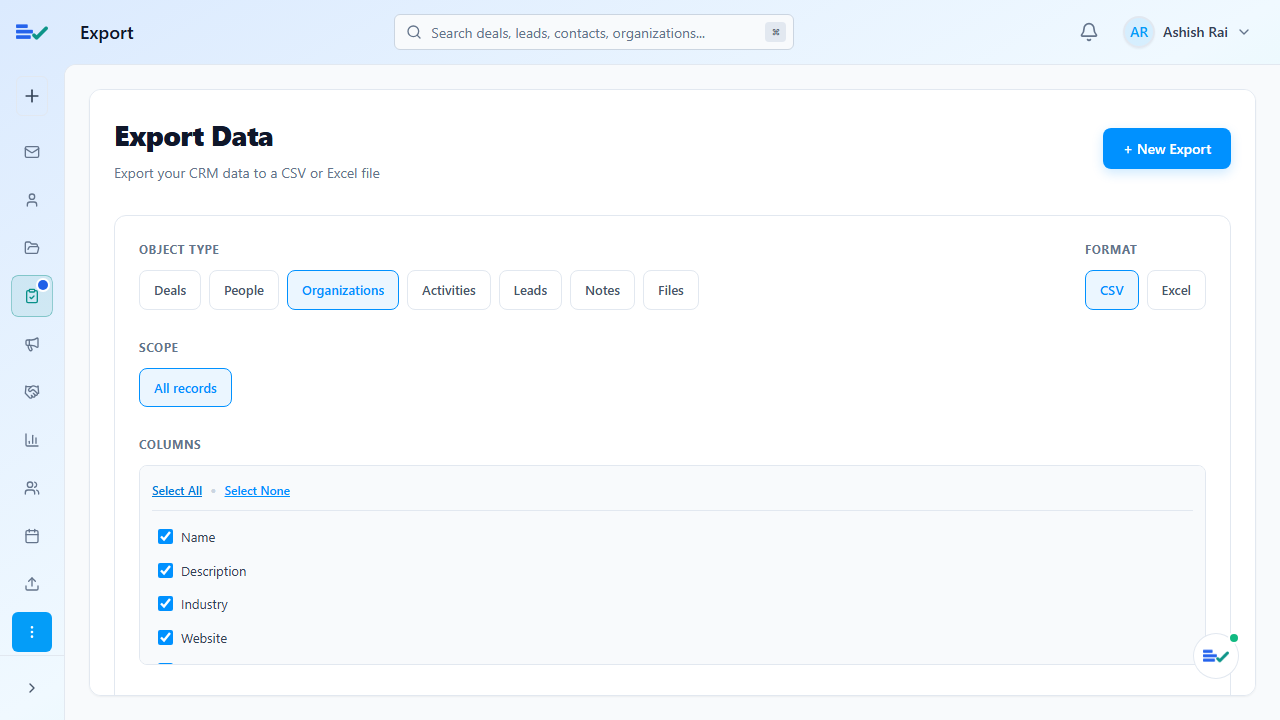
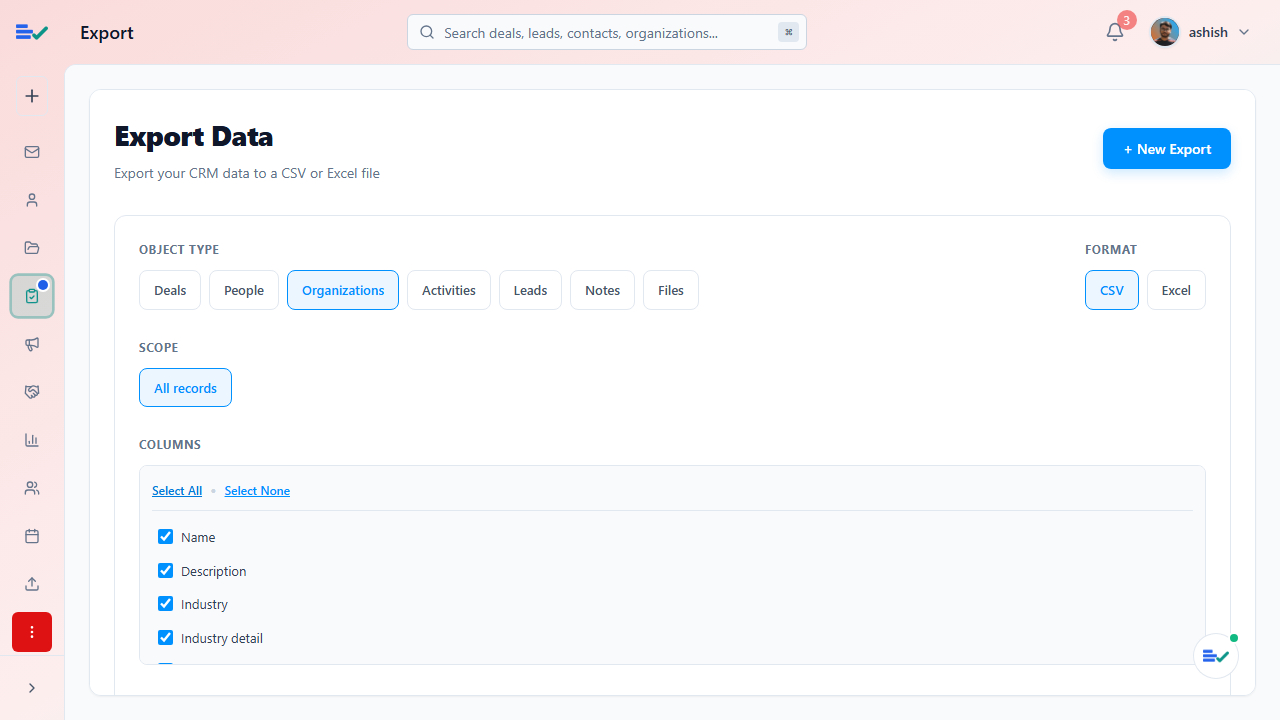
Add Export delete and Download again tests
- DeleteActivities, DeleteContactExport (People), DeleteNotesExport, DeleteOrganization:
  were empty; now delete the newest export of the type from Export History (making and
  downloading one first when there is none), checking Cancel, Delete and the reload
- DownloadAgainExport: Download again gives the same file as the first download (CSV, Excel)
- tests/common/deleteExport.js: shared delete flow; exportData.js exports openExport and readRows
- Screenshots of each test, and refreshed Organizations CSV export screenshots

diff --git a/tests/common/deleteExport.js b/tests/common/deleteExport.js
@@ -1,0 +1,123 @@
+// tests/common/deleteExport.js
+// Shared flow for the Export delete scripts (tests/Export/Delete*.spec.js): delete an export from the Export History.
+// Exports are kept for 7 days, so there is often none of the object type. Then one is made first (Export, then
+// Download in the success message) and that one is deleted. Only the newest export of the object type is deleted.
+// Screenshots: screenshots/Export/Delete<Object>-*.png
+const { expect } = require('@playwright/test');
+const { openExport } = require('./exportData');
+
+// Object type button and history entry -> name the export API uses for it
+const TYPES = { People: 'contacts', Organizations: 'organizations', Activities: 'activities', Notes: 'notes' };
+
+const isExportList = response => /\/api\/exports\?/.test(response.url()) && response.request().method() === 'GET';
+
+/**
+ * Makes an export of every record of the object type and downloads it (setup for the delete test).
+ * @returns {Promise<object>} the export as the API returns it
+ */
+async function makeExport(page, object) {
+  const main = page.getByRole('main');
+  const objectButton = main.getByRole('button', { name: object, exact: true });
+  await objectButton.click();
+  await expect(objectButton).toHaveClass(/--active/);
+  await main.getByRole('button', { name: 'Select All', exact: true }).click();
+  const [created] = await Promise.all([
+    page.waitForResponse(r => r.url().endsWith('/api/exports') && r.request().method() === 'POST', { timeout: 30000 }),
+    main.getByRole('button', { name: 'Export', exact: true }).click(),
+  ]);
+  expect(created.status(), `Export API returned ${created.status()}`).toBe(201);
+  const job = (await created.json()).data;
+
+  // Download it from the success message once the file is ready
+  const success = page.getByRole('dialog').filter({ has: page.getByRole('heading', { name: /Export$/ }) });
+  await expect(success, 'The export should finish').toBeVisible({ timeout: 60000 });
+  const [download] = await Promise.all([
+    page.waitForEvent('download', { timeout: 30000 }),
+    success.getByRole('button', { name: 'Download' }).click(),
+  ]);
+  await expect(success).toBeHidden();
+  console.log(`No ${object} export to delete: made export #${job.id} and downloaded ${download.suggestedFilename()}`);
+  return job;
+}
+
+/**
+ * Deletes the newest export of the object type from the Export History, making one first when there is none.
+ * Checks the question before deleting, that Cancel keeps the export, and that Delete removes it for good.
+ * @param {import('@playwright/test').Page} page
+ * @param {'People'|'Organizations'|'Activities'|'Notes'} object
+ */
+async function deleteExport(page, object) {
+  const shot = step => page.screenshot({ path: `screenshots/Export/Delete${object}-${step}.png` });
+  const type = TYPES[object];
+  const prefix = object.toLowerCase(); // file names: people_export_12.csv, notes_export_13.xlsx, ...
+
+  // Export page, with the history of the object type
+  const [list] = await Promise.all([page.waitForResponse(isExportList, { timeout: 60000 }), openExport(page)]);
+  const main = page.getByRole('main');
+  const rows = main.getByRole('row').filter({ has: page.getByRole('cell') });
+  let job = (await list.json()).data.jobs.find(j => j.objectType === type && j.status === 'ready');
+  if (!job) job = await makeExport(page, object);
+  else console.log(`Deleting the newest ${object} export, #${job.id}`);
+  const fileName = `${prefix}_export_${job.id}.${job.format}`;
+  await main.getByRole('combobox').selectOption({ label: object });
+  const row = rows.filter({ hasText: fileName });
+  await expect(row, `${fileName} should be in the Export History`).toHaveCount(1);
+  // The other exports listed, which must all stay (other tests may add exports meanwhile, so no exact count)
+  const others = (await rows.locator('td:first-child').allInnerTexts()).map(t => t.trim()).filter(name => name !== fileName);
+  await row.scrollIntoViewIfNeeded();
+  await shot('1-history');
+
+  // Every DELETE request made from here on (Cancel must not make one)
+  const deletes = [];
+  page.on('request', request => { if (request.method() === 'DELETE') deletes.push(request.url()); });
+
+  // Delete asks first
+  const question = page.getByRole('heading', { name: 'Delete Export', level: 2 }).locator('xpath=..');
+  const deleteButton = row.getByRole('button', { name: 'Delete this export' });
+  await deleteButton.click();
+  await expect(question.getByRole('heading', { name: 'Delete Export' })).toBeVisible();
+  await expect(page.getByText('Are you sure you want to delete this export? This cannot be undone.')).toBeVisible();
+  const cancel = page.getByRole('button', { name: 'Cancel', exact: true });
+  const confirm = page.getByRole('button', { name: 'Delete', exact: true });
+  await expect(cancel).toBeVisible();
+  await expect(confirm).toBeVisible();
+  await shot('2-question');
+
+  // Cancel keeps the export
+  await cancel.click();
+  await expect(page.getByRole('heading', { name: 'Delete Export' }), 'The question should close').toBeHidden();
+  await expect(row, 'Cancel should keep the export').toHaveCount(1);
+  expect(deletes, 'Cancel should not delete anything').toEqual([]);
+
+  // Delete removes it
+  await deleteButton.click();
+  await expect(page.getByRole('heading', { name: 'Delete Export' })).toBeVisible();
+  const [deleted] = await Promise.all([
+    page.waitForResponse(r => r.request().method() === 'DELETE' && r.url().includes('/api/exports/'), { timeout: 30000 }),
+    confirm.click(),
+  ]);
+  expect(deleted.ok(), `Delete API returned ${deleted.status()}`).toBeTruthy();
+  expect(new URL(deleted.url()).pathname, `Export #${job.id} should be the one deleted`).toMatch(new RegExp(`/api/exports/${job.id}$`));
+  expect(deletes, 'Only this export should be deleted').toHaveLength(1);
+  await expect(page.getByRole('heading', { name: 'Delete Export' }), 'The question should close').toBeHidden();
+  await expect(page.getByText('Export Deleted', { exact: true }), 'A message should confirm the delete').toBeVisible();
+  await expect(page.getByText('The export job has been successfully deleted.')).toBeVisible();
+  await expect(row, `${fileName} should leave the Export History`).toHaveCount(0);
+  for (const name of others) {
+    await expect(rows.filter({ hasText: name }), `Only this export should leave the history, not ${name}`).toHaveCount(1);
+  }
+  if (others.length === 0 && await rows.count() === 0) {
+    await expect(main.getByText(`No ${object} exports yet`), 'An empty history should say so').toBeVisible();
+  }
+  console.log(`Deleted ${fileName}`);
+  await shot('3-deleted');
+
+  // Still gone after reloading the page
+  const [reloaded] = await Promise.all([page.waitForResponse(isExportList, { timeout: 30000 }), page.reload()]);
+  expect((await reloaded.json()).data.jobs.map(j => j.id), `Export #${job.id} should be gone for good`).not.toContain(job.id);
+  await expect(page.getByRole('heading', { name: 'Export Data', level: 1 })).toBeVisible({ timeout: 30000 });
+  await main.getByRole('combobox').selectOption({ label: object });
+  await expect(row, `${fileName} should still be gone after a reload`).toHaveCount(0);
+}
+
+module.exports = { deleteExport };

diff --git a/tests/Export/DownloadAgainExport.spec.js b/tests/Export/DownloadAgainExport.spec.js
@@ -1,0 +1,102 @@
+// Export > Export History > Download again: download an export a second time from the history
+//   1. Make a Deals export (all records, all columns) and download it from the success message
+//   2. Export History lists it, and its button now reads "Download again"
+//   3. Download again gives the same file: same name, same content, as many records as the history shows
+// One test per format. The export is deleted after the test (also when it fails), so runs do not fill up the history.
+// Screenshots: screenshots/Export/DownloadAgain-<format>-*.png
+const fs = require('fs');
+const { test, expect } = require('@playwright/test');
+const { openExport, readRows } = require('../common/exportData');
+
+const BASE_URL = 'https://staging.pipeclose.com';
+const FORMATS = { CSV: 'csv', Excel: 'xlsx' };
+
+// The export made by the test, deleted afterwards
+let testExport;
+test.afterEach(async ({ page }) => {
+  if (!testExport) return;
+  const response = await page.request.delete(`${BASE_URL}/api/exports/${testExport.id}`).catch(e => e);
+  if (response.ok?.()) console.log(`Cleanup: deleted export #${testExport.id}`);
+  else console.warn(`Cleanup: could not delete export #${testExport.id}: ${response.status?.() ?? response.message}`);
+  testExport = undefined;
+});
+
+for (const format of Object.keys(FORMATS)) {
+  test(`Export - Download again from Export History (${format})`, async ({ page }) => {
+    test.setTimeout(180000);
+    const shot = step => page.screenshot({ path: `screenshots/Export/DownloadAgain-${format}-${step}.png` });
+    const extension = FORMATS[format];
+    await openExport(page);
+    const main = page.getByRole('main');
+
+    let fileName, firstFile;
+    await test.step('Make a Deals export and download it', async () => {
+      await main.getByRole('button', { name: 'Deals', exact: true }).click();
+      const formatButton = main.getByRole('button', { name: format, exact: true });
+      await formatButton.click();
+      await expect(formatButton).toHaveClass(/--active/);
+      await main.getByRole('button', { name: 'Select All', exact: true }).click();
+      const [created] = await Promise.all([
+        page.waitForResponse(r => r.url().endsWith('/api/exports') && r.request().method() === 'POST', { timeout: 30000 }),
+        main.getByRole('button', { name: 'Export', exact: true }).click(),
+      ]);
+      expect(created.status(), `Export API returned ${created.status()}`).toBe(201);
+      testExport = (await created.json()).data;
+      fileName = `deals_export_${testExport.id}.${extension}`;
+
+      const success = page.getByRole('dialog').filter({ has: page.getByRole('heading', { name: `${extension.toUpperCase()} Export` }) });
+      await expect(success, 'The export should finish').toBeVisible({ timeout: 60000 });
+      const [download] = await Promise.all([
+        page.waitForEvent('download', { timeout: 30000 }),
+        success.getByRole('button', { name: 'Download' }).click(),
+      ]);
+      expect(download.suggestedFilename()).toBe(fileName);
+      firstFile = test.info().outputPath(`first-${fileName}`);
+      await download.saveAs(firstFile);
+      await expect(success).toBeHidden();
+      console.log(`Made and downloaded ${fileName}`);
+    });
+
+    const row = main.getByRole('row').filter({ hasText: fileName });
+    const cells = row.getByRole('cell'); // File Name, Date, Status, Records, Format, Available Until, Actions
+    const downloadAgain = row.getByRole('button', { name: /Download again/ });
+
+    await test.step('Export History lists it with "Download again"', async () => {
+      await main.getByRole('combobox').selectOption({ label: 'Deals' });
+      await expect(row, `${fileName} should be in the Export History`).toHaveCount(1);
+      await expect(cells.nth(2)).toHaveText('Ready');
+      await expect(cells.nth(4)).toHaveText(extension.toUpperCase());
+      await expect(downloadAgain, 'A downloaded export should offer "Download again"').toBeVisible();
+      await expect(downloadAgain).toBeEnabled();
+      await row.scrollIntoViewIfNeeded();
+      await shot('1-history');
+    });
+
+    await test.step('Download again gives the same file', async () => {
+      const [download] = await Promise.all([
+        page.waitForEvent('download', { timeout: 30000 }),
+        downloadAgain.click(),
+      ]);
+      expect(download.suggestedFilename(), 'Download again should keep the file name').toBe(fileName);
+      const secondFile = test.info().outputPath(`again-${fileName}`);
+      await download.saveAs(secondFile);
+      await expect(page.getByText('Download Complete', { exact: true }), 'A message should confirm the download').toBeVisible();
+      await expect(page.getByText(`${fileName} has been downloaded.`)).toBeVisible();
+
+      // Same file as the first download, with every record the history counts
+      const first = fs.readFileSync(firstFile);
+      const second = fs.readFileSync(secondFile);
+      expect(second.length, 'The file should not be empty').toBeGreaterThan(0);
+      expect(second.equals(first), 'Download again should give exactly the same file as the first download').toBe(true);
+      const [header, ...records] = readRows(secondFile);
+      expect(header.length, 'The file should have its columns').toBeGreaterThan(0);
+      await expect(cells.nth(3), 'Records in the history should match the file').toHaveText(String(records.length));
+      console.log(`Downloaded ${fileName} again: same ${second.length} bytes, ${header.length} columns, ${records.length} records`);
+
+      // The export stays in the history, still ready to download
+      await expect(row).toHaveCount(1);
+      await expect(downloadAgain).toBeEnabled();
+      await shot('2-downloaded-again');
+    });
+  });
+}

diff --git a/tests/Export/DeleteOrganization.spec.js b/tests/Export/DeleteOrganization.spec.js
@@ -1,0 +1,9 @@
+const { test } = require('@playwright/test');
+const { deleteExport } = require('../common/deleteExport');
+
+// Export > Export History > Organizations: delete the newest Organizations export (one is made and downloaded first
+// when there is none). Checks the question, that Cancel keeps it and that Delete removes it (tests/common/deleteExport.js).
+test('Export - delete an Organizations export', async ({ page }) => {
+  test.setTimeout(180000);
+  await deleteExport(page, 'Organizations');
+});

diff --git a/tests/Export/DeleteContactExport.spec.js b/tests/Export/DeleteContactExport.spec.js
@@ -1,0 +1,9 @@
+const { test } = require('@playwright/test');
+const { deleteExport } = require('../common/deleteExport');
+
+// Export > Export History > People (contacts): delete the newest People export (one is made and downloaded first
+// when there is none). Checks the question, that Cancel keeps it and that Delete removes it (tests/common/deleteExport.js).
+test('Export - delete a People (contacts) export', async ({ page }) => {
+  test.setTimeout(180000);
+  await deleteExport(page, 'People');
+});

diff --git a/tests/Export/DeleteActivities.spec.js b/tests/Export/DeleteActivities.spec.js
@@ -1,0 +1,9 @@
+const { test } = require('@playwright/test');
+const { deleteExport } = require('../common/deleteExport');
+
+// Export > Export History > Activities: delete the newest Activities export (one is made and downloaded first
+// when there is none). Checks the question, that Cancel keeps it and that Delete removes it (tests/common/deleteExport.js).
+test('Export - delete an Activities export', async ({ page }) => {
+  test.setTimeout(180000);
+  await deleteExport(page, 'Activities');
+});

diff --git a/tests/Export/DeleteNotesExport.spec.js b/tests/Export/DeleteNotesExport.spec.js
@@ -1,0 +1,9 @@
+const { test } = require('@playwright/test');
+const { deleteExport } = require('../common/deleteExport');
+
+// Export > Export History > Notes: delete the newest Notes export (one is made and downloaded first when there is
+// none). Checks the question, that Cancel keeps it and that Delete removes it (tests/common/deleteExport.js).
+test('Export - delete a Notes export', async ({ page }) => {
+  test.setTimeout(180000);
+  await deleteExport(page, 'Notes');
+});

diff --git a/tests/common/exportData.js b/tests/common/exportData.js
@@ -177,4 +177,4 @@ function zipEntry(zip, name) {
   return null;
 }
 
-module.exports = { exportAllColumns };
+module.exports = { exportAllColumns, openExport, readRows };
